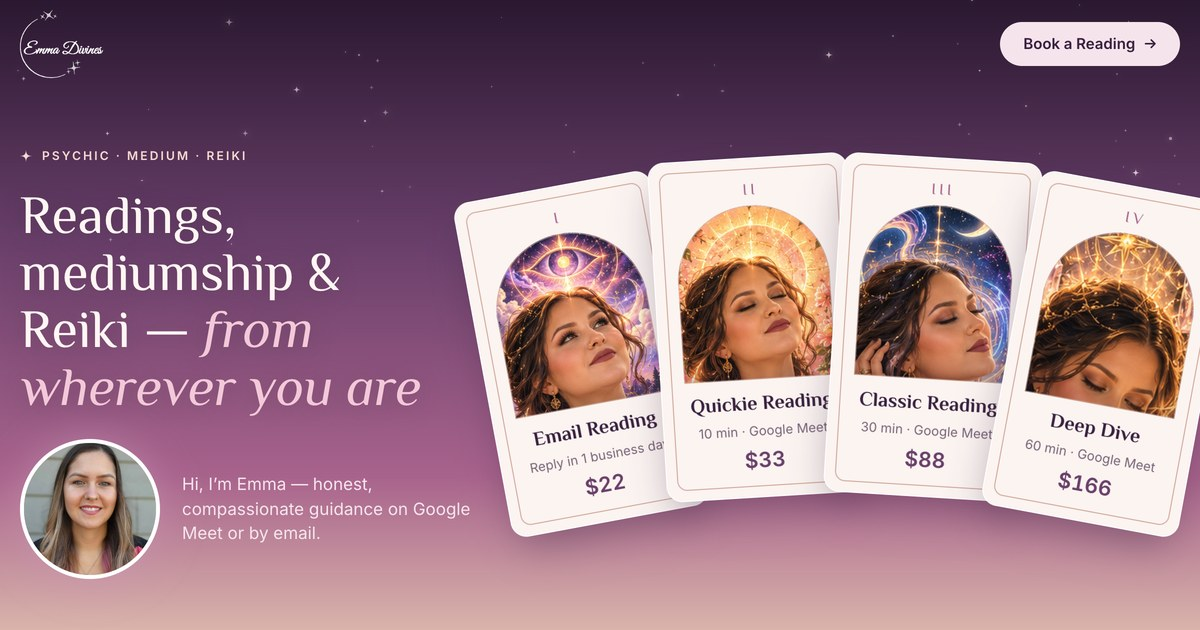
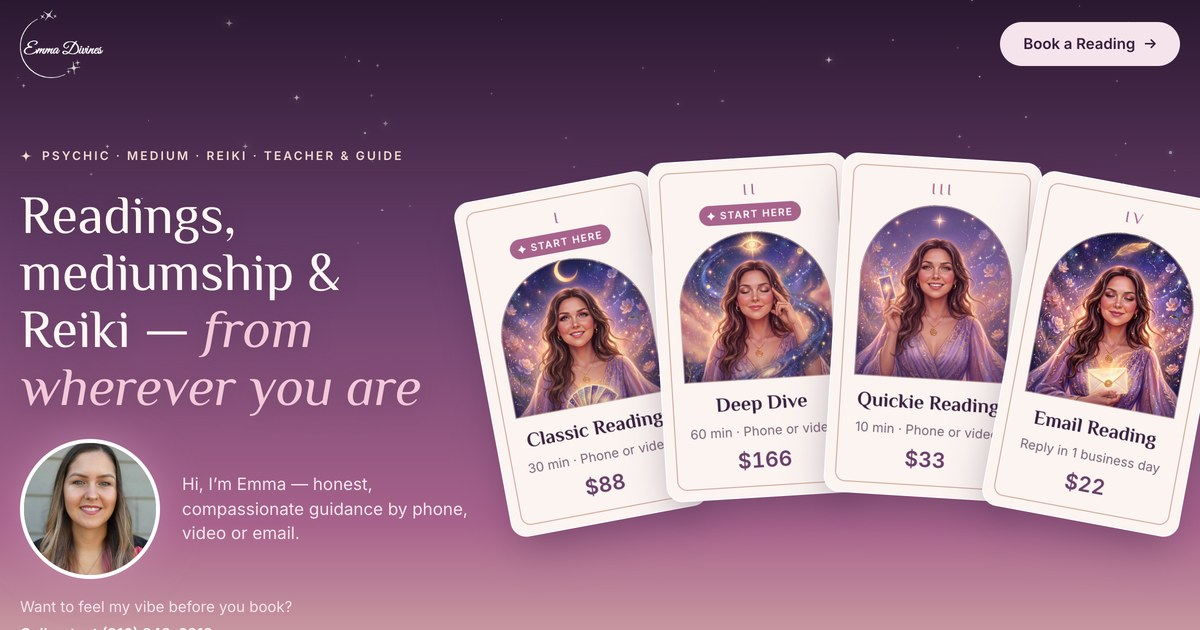
New tarot art: one illustration of Emma per offering
17 cards generated in the style of her clair cards, one brand colour per
category. They replace the cropped clair art on every session card and
fill the category sheets and Events gallery. Link preview refreshed.

Changed region(s): [[0.4008, 0.3016, 1.0, 0.7841], [0.0, 0.7841, 1.0, 1.0], [0.2158, 0.2413, 0.3392, 0.2714]]

diff --git a/index.html b/index.html
@@ -138,8 +138,8 @@ h1 em{font-style:italic;color:var(--rose-light)}
 .art svg{position:absolute;inset:0;width:100%;height:100%}
 /* Emma's illustrated card art: arched window like her card frames, thin gold keyline */
 .art-img{border-radius:999px 999px 6px 6px;background:#3A2140;box-shadow:inset 0 0 0 1px rgba(192,137,119,.55)}
-.art-img img{position:absolute;inset:0;width:100%;height:100%;object-fit:cover;object-position:50% 12%}
-.rcard .art-img img{object-position:50% 34%}
+.art-img img{position:absolute;inset:0;width:100%;height:100%;object-fit:cover;object-position:50% 18%}
+.rcard .art-img img{object-position:50% 26%}
 .art-img::after{content:"";position:absolute;inset:0;border-radius:inherit;box-shadow:inset 0 0 0 1px rgba(219,183,172,.6),inset 0 -24px 30px -20px rgba(42,24,48,.35);pointer-events:none}
 .name{font:700 20px/1.15 var(--f-display);color:var(--plum);margin:4px 0 0}
 .meta{font-size:13px;color:var(--ink-soft);margin:0}
@@ -770,6 +770,8 @@ const OFFERS={
 };
 const SHORT={'Psychic Readings':'Readings'};
 // Card art: Emma's six "clair" illustrations (from Emma), matched to each session
+// One illustration per offering, in images/tarot/<slug>.jpg
+const tarotSlug=n=>n.toLowerCase().replace(/&/g,'and').replace(/[^a-z0-9]+/g,'-').replace(/^-|-$/g,'');
 const CLAIR={vision:'clairvoyance',feel:'clairsentience',hear:'clairaudience',smell:'clairalience',taste:'clairgustance',know:'claircognizance'};
 const ART_FOR={'Email Reading':'vision','Quickie Reading':'feel','Classic Reading':'hear','Deep Dive':'know','Evidential Mediumship':'hear',
   'Reiki Tune-Up':'feel','Reiki Full Session':'smell','Reiki Healing Package':'taste','Free Student Consult':'know','Intuitive Tarot Workshop':'vision',
@@ -815,8 +817,8 @@ $$('a[data-sheet]').forEach(a=>a.addEventListener('click',e=>{e.preventDefault()
 
 /* ---------- Card markup ---------- */
 function artHTML(i,h,o){
-  const c=o&&ART_FOR[o.n]&&CLAIR[ART_FOR[o.n]];
-  if(c)return `<div class="art art-img"${h?` style="flex:0 0 ${h}px"`:''}><img src="images/card-${c}.jpg" alt="" loading="lazy" draggable="false"></div>`;
+  const slug=o&&tarotSlug(o.n);
+  if(slug)return `<div class="art art-img"${h?` style="flex:0 0 ${h}px"`:''}><img src="images/tarot/${slug}.jpg" alt="" loading="lazy" draggable="false"></div>`;
   const spots=[[50,50,22],[74,26,10],[28,74,7],[80,72,5]].slice(0,[2,3,4,3][i%4]);
   return `<div class="art" style="background:linear-gradient(${ART_FROM[i%4]},${ART_TO[i%4]})${h?';flex:0 0 '+h+'px':''}"><svg viewBox="0 0 100 100" preserveAspectRatio="xMidYMid meet" aria-hidden="true">
     <circle cx="50" cy="50" r="40" fill="none" stroke="#F6E4EC" stroke-width=".7" stroke-dasharray="212 40" transform="rotate(${100+i*23} 50 50)" opacity=".85"/>
@@ -1001,11 +1003,11 @@ dlg.addEventListener('click',e=>{if(e.target===dlg)dlg.close();});
 /* ---------- Category sheet ---------- */
 // Category sheets: intro + an illustration of Emma
 const CAT={
-  'Psychic Readings':{eb:'Readings',intro:'Honest, compassionate guidance on love, career, and life’s crossroads, by phone, video or email, from wherever you are.',photo:'images/scene-clairvoyance.jpg',alt:'Illustration of Emma receiving a vision'},
-  'Mediumship':{eb:'Mediumship',intro:'A gentle space to connect with loved ones who have passed, through details you can recognise.',photo:'images/scene-clairaudience.jpg',alt:'Illustration of Emma listening to spirit'},
-  'Reiki':{eb:'Distance Reiki',intro:'Reiki from the comfort of home to rebalance, release what you’re carrying, and restore.',photo:'images/scene-clairsentience.jpg',alt:'Illustration of Emma with healing light at her heart'},
-  'Events':{eb:'Gather & create community',intro:'Mediumship evenings, sacred circles and ceremonies. I’ve been hosting and attending sacred circles since 2018, and it’s one of my greatest joys.',gallery:['clairalience','clairgustance','clairaudience','clairvoyance']},
-  'Classes':{eb:'Classes & mentorship',intro:'Learn to read the cards, deepen your intuition, or begin your own Reiki path.',photo:'images/scene-claircognizance.jpg',alt:'Illustration of Emma reading a glowing book'}
+  'Psychic Readings':{eb:'Readings',intro:'Honest, compassionate guidance on love, career, and life’s crossroads, by phone, video or email, from wherever you are.',photo:'images/tarot/classic-reading.jpg',alt:'Illustration of Emma holding glowing tarot cards under a crescent moon'},
+  'Mediumship':{eb:'Mediumship',intro:'A gentle space to connect with loved ones who have passed, through details you can recognise.',photo:'images/tarot/evidential-mediumship.jpg',alt:'Illustration of Emma listening to spirit, with doves'},
+  'Reiki':{eb:'Distance Reiki',intro:'Reiki from the comfort of home to rebalance, release what you’re carrying, and restore.',photo:'images/tarot/reiki-full-session.jpg',alt:'Illustration of Emma with healing light at her heart'},
+  'Events':{eb:'Gather & create community',intro:'Mediumship evenings, sacred circles and ceremonies. I’ve been hosting and attending sacred circles since 2018, and it’s one of my greatest joys.',gallery:['artistry-of-mediumship-tour','private-sacred-ceremony','reiki-i-and-ii','evidential-mediumship']},
+  'Classes':{eb:'Classes & mentorship',intro:'Learn to read the cards, deepen your intuition, or begin your own Reiki path.',photo:'images/tarot/tarot-boot-camp.jpg',alt:'Illustration of Emma with a glowing book of tarot cards'}
 };
 const EVENTS=[
   {n:'Artistry of Mediumship Tour',m:'Nationwide · live mediumship demonstrations',p:'',t:'Emma is a featured psychic medium on this nationwide tour: evenings full of love, laughter and messages from loved ones who have passed.',href:'https://www.artistryofmediumship.com/north-california-tour',cta:'See dates'},
@@ -1015,7 +1017,7 @@ const catDlg=$('#cat');
 function openCat(k){
   const c=CAT[k],list=OFFERS[k]||EVENTS;if(!c)return;
   catDlg.innerHTML=`<div class="cat-grid">
-    <div class="cat-photo${c.gallery?' cat-gallery':''}">${c.gallery?c.gallery.map(g=>`<figure class="cg-tile"><img src="images/scene-${g}.jpg" alt="" loading="lazy"></figure>`).join(''):c.photo?`<img src="${c.photo}" alt="${c.alt}">`:`<div class="cat-ph"><svg><use href="#sp"/></svg></div>`}</div>
+    <div class="cat-photo${c.gallery?' cat-gallery':''}">${c.gallery?c.gallery.map(g=>`<figure class="cg-tile"><img src="images/tarot/${g}.jpg" alt="" loading="lazy"></figure>`).join(''):c.photo?`<img src="${c.photo}" alt="${c.alt}">`:`<div class="cat-ph"><svg><use href="#sp"/></svg></div>`}</div>
     <div class="cat-body">
       <button class="close-btn cat-close" aria-label="Close">✕</button>
       <div class="cat-head"><p class="eyebrow"><svg><use href="#sp"/></svg>${c.eb}</p><h2 id="cat-title">${k}</h2><p>${c.intro}</p></div>

diff --git a/README.md b/README.md
@@ -22,7 +22,7 @@ python3 -m http.server 8000
 ## What's in it
 
 - **Tarot-card offerings above the fold.** Cards are dealt in on load, tilt toward the cursor, and flip to show the description, price and a Book button (Calendly). On desktop they sit in a fanned spread; tabs with more than four sessions are dealt in sets of four. On phones they become a swipeable deck: the front card sticks to your finger like Tinder, flings away past a threshold (or with a quick flick) and springs back otherwise; a tap flips it.
-- **Card art.** Each session card shows one of Emma's six "clair" illustrations (clairvoyance, clairsentience, clairaudience, clairalience, clairgustance, claircognizance) in an arched window, matched to the session in `ART_FOR`. The images are cropped from a single sheet she sent, so ask for the individual full-size originals before launch.
+- **Card art.** Every offering has its own illustration of Emma (`images/tarot/<offering-slug>.jpg`), generated in the style of her "clair" cards, with one brand color per category: Readings deep purple, Mediumship muted purple, Reiki soft rose, Classes terracotta, Events mauve. The same art fills the category sheets and the Events gallery. Prompts are in `TAROT-ART-PROMPTS.md`.
 - **Draw a card (Ask the cards).** Choose a focus (love, career, healing, a loved one who's passed, or just guide me), shuffle, and the 22 Major Arcana deal out into a fan. Pick one and it flips to show the card, its keywords and a message for that focus, then suggests a session to book. Card data and draft messages live in `ARC`/`FOCI` in index.html; the line-art symbols are placeholders for Emma's own card art.
 - **Breathing dusk sky.** A small hand-written WebGL shader (0.35× resolution) slowly swells and fades the soft glows and drifts faint nebula clouds through the sky, all in the existing palette. It pauses when off-screen and falls back to a CSS gradient.
 - **Shooting stars.** Every 1–3.5 seconds a soft streak crosses the hero or Draw a card sky, only while that section is on screen.
